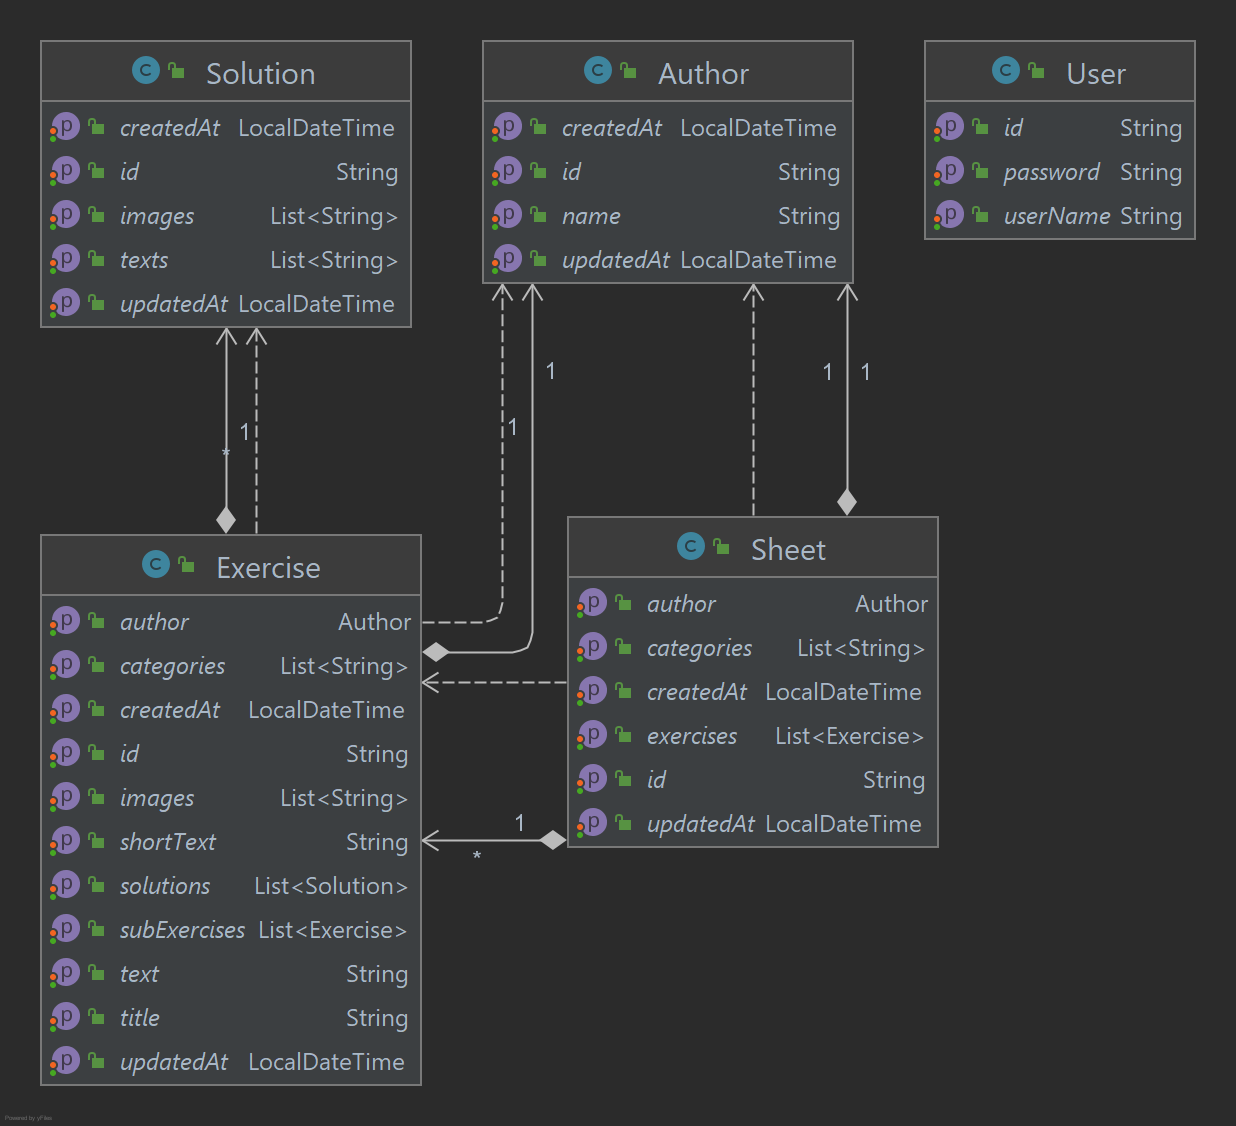
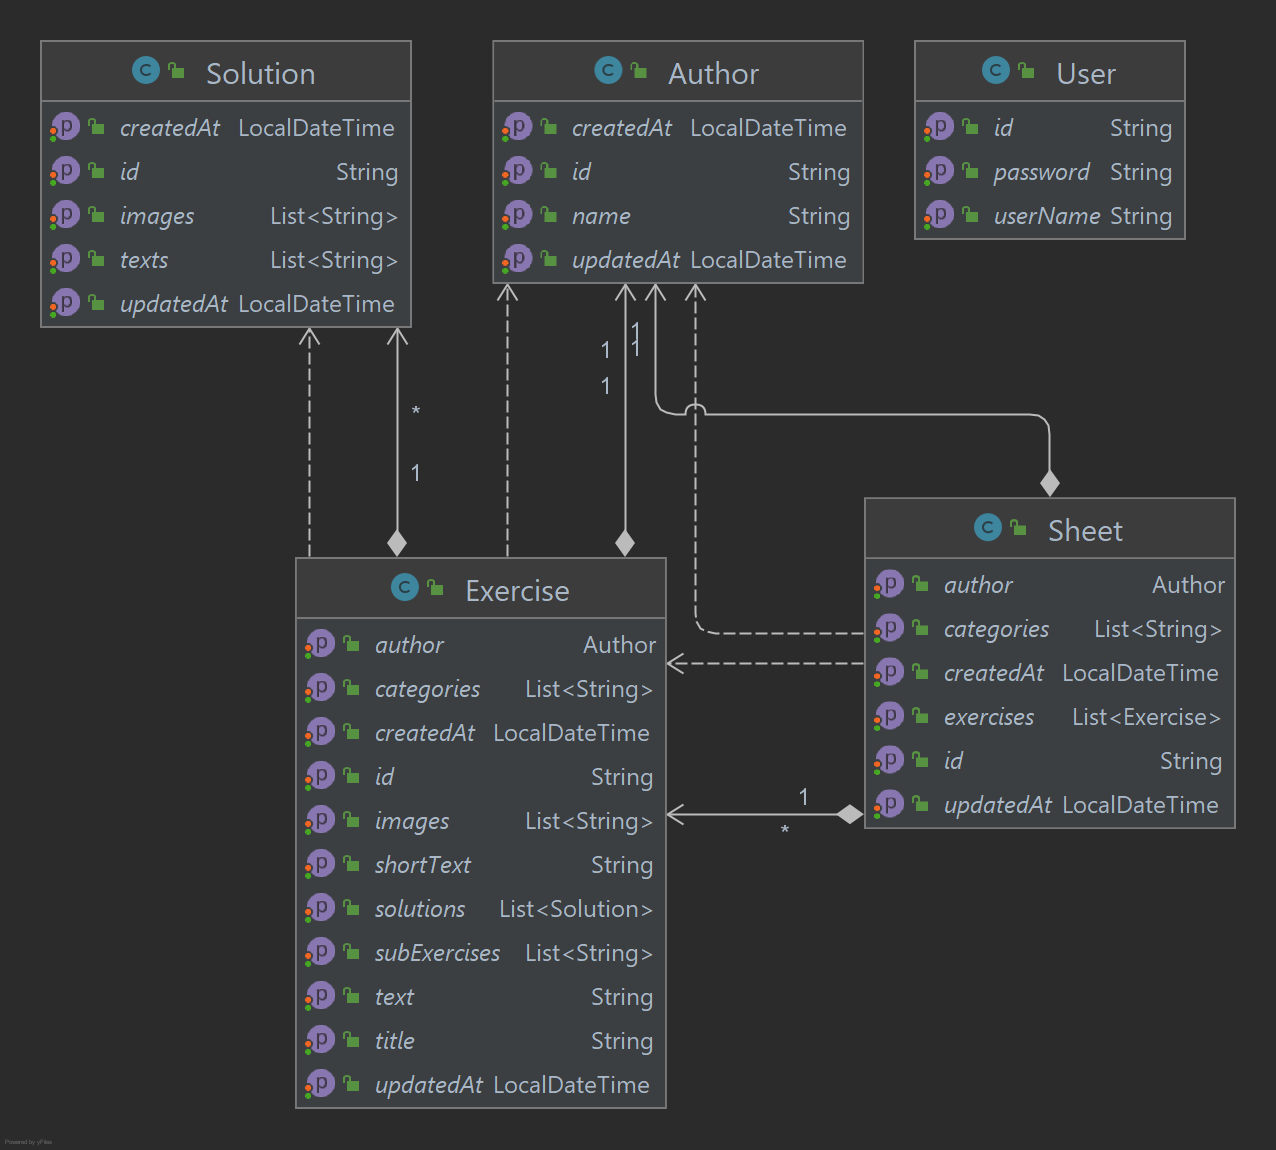
changed subexercise type

diff --git a/src/main/java/com/frauas/exercisegenerator/documents/Exercise.java b/src/main/java/com/frauas/exercisegenerator/documents/Exercise.java
@@ -31,8 +31,7 @@ public class Exercise {
 
     private List<String> images;
 
-    @DBRef
-    private List<Exercise> subExercises;
+    private List<String> subExercises;
 
     @DBRef
     private List<Solution> solutions;
